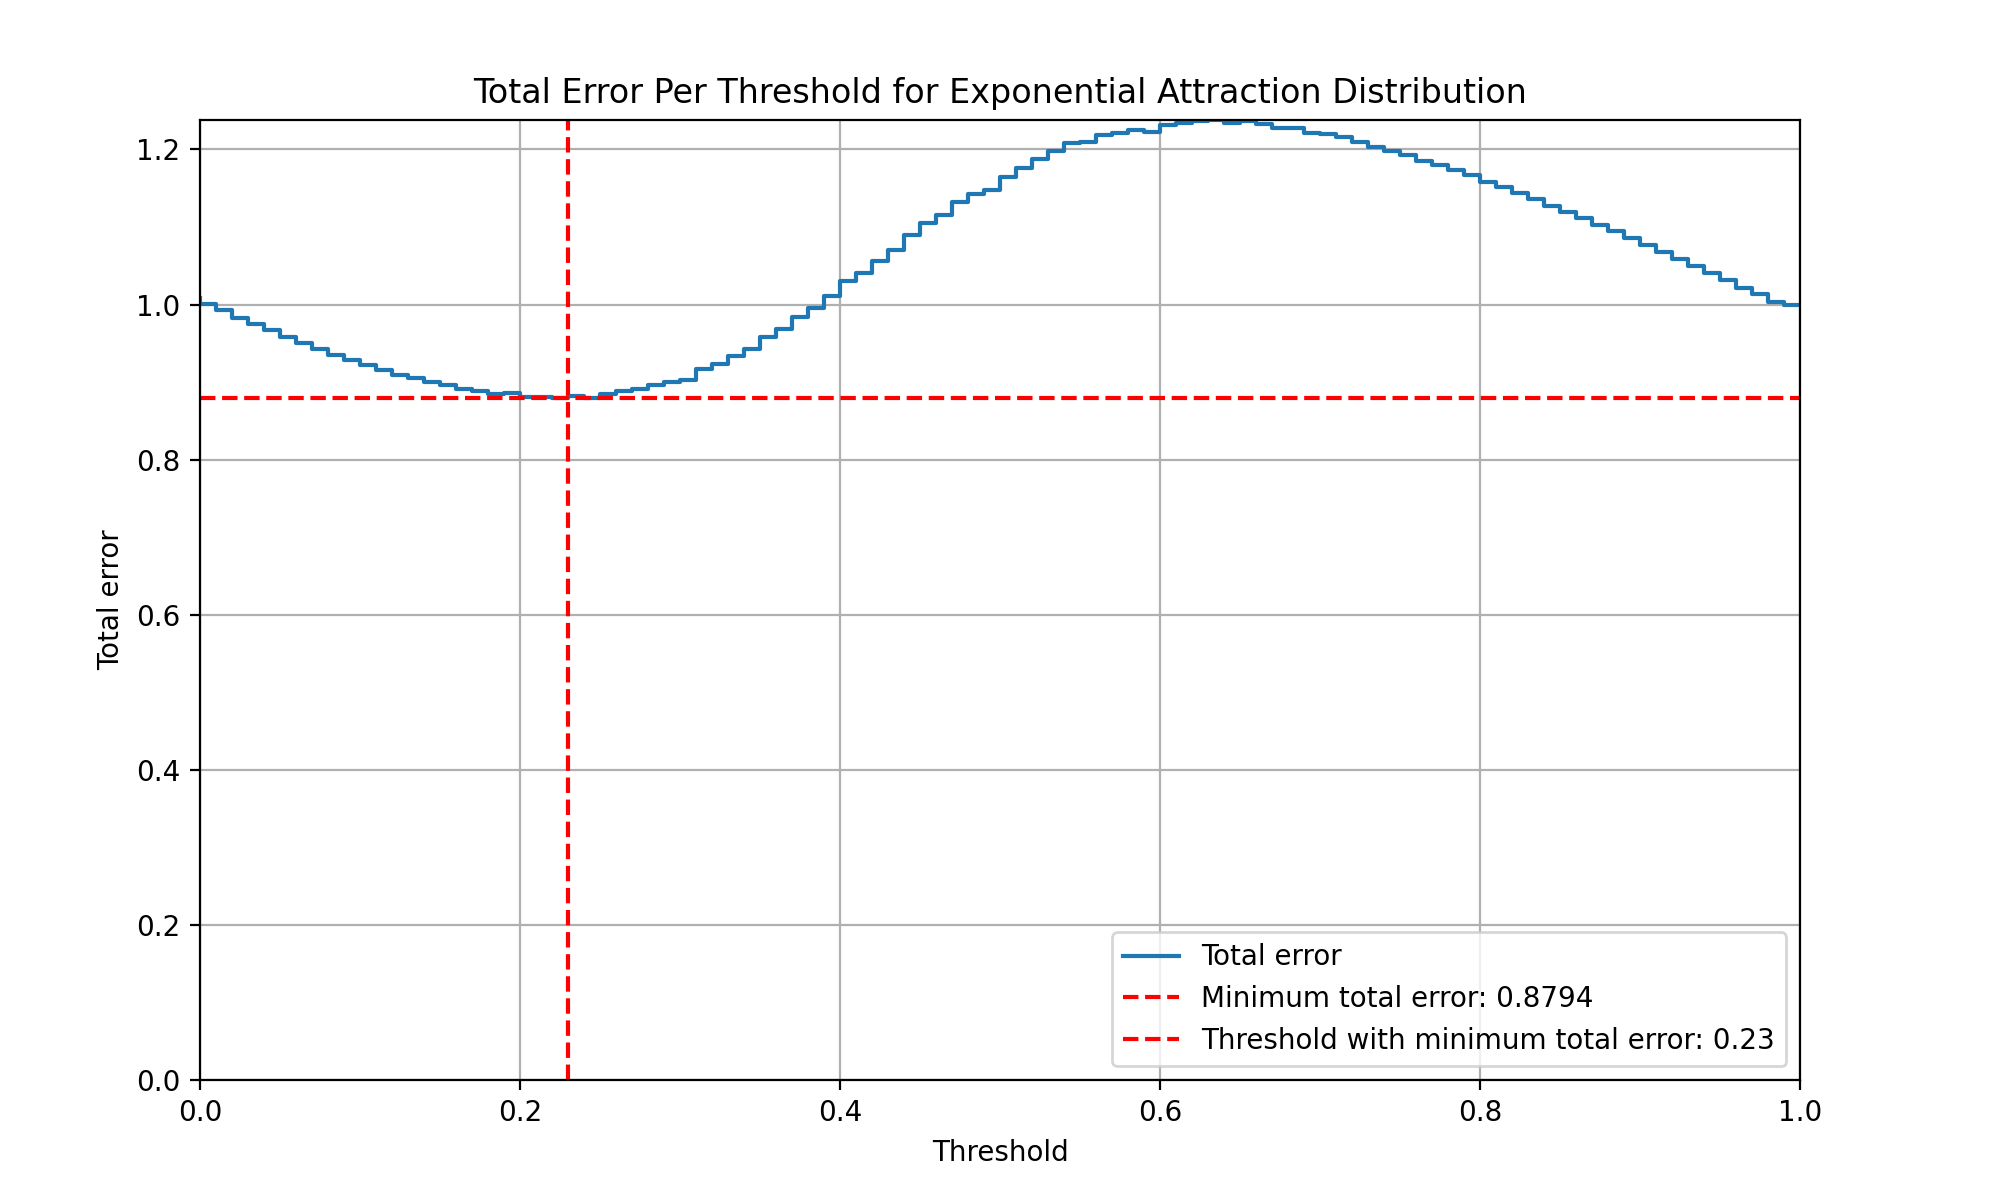
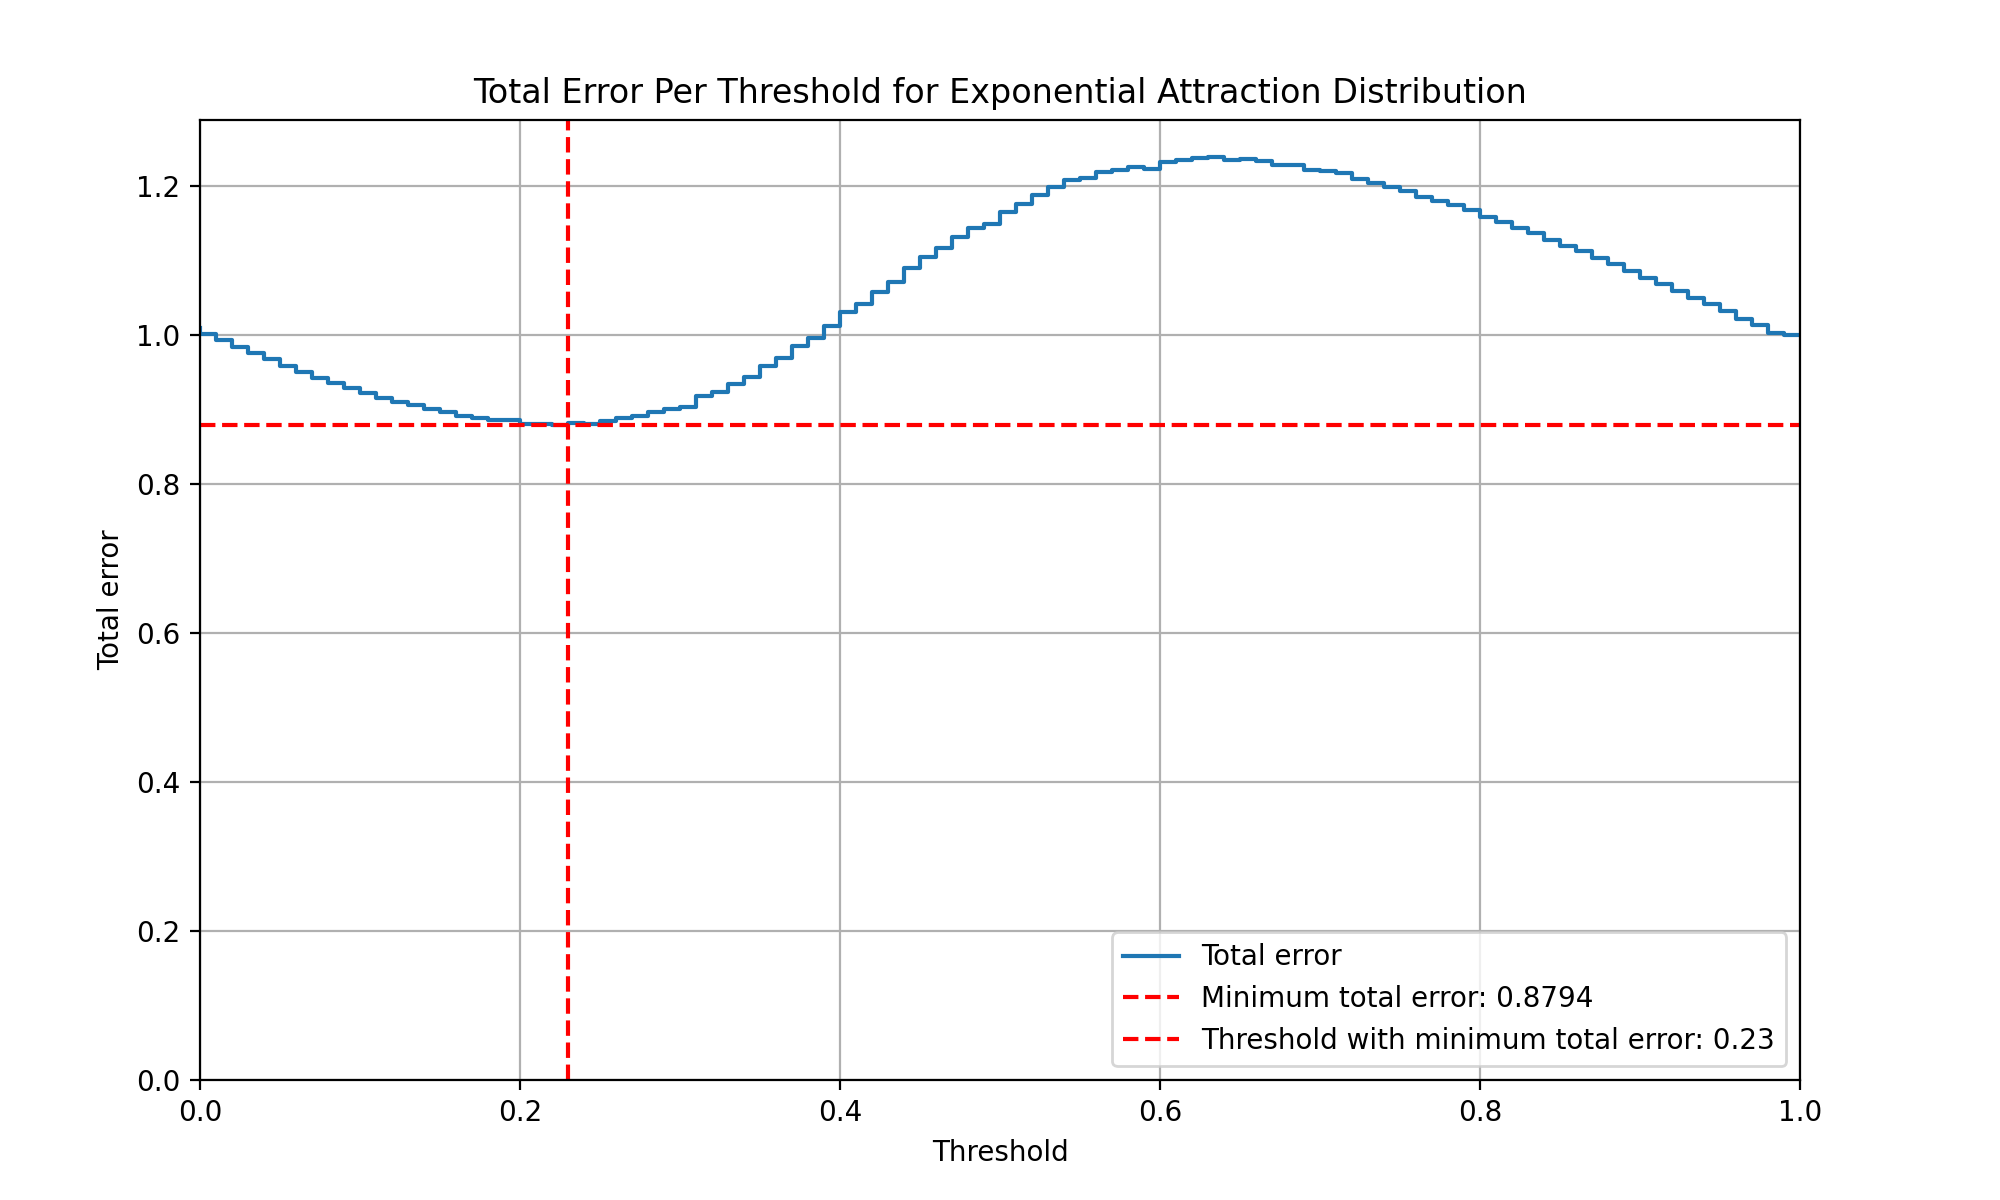
added more commenting

diff --git a/src/main.py b/src/main.py
@@ -16,15 +16,25 @@ def run_simulation(attractionDist, num_population, num_rounds, threshold, plot):
 
     for _ in range(POPULATION):
         if attractionDist == "Uniform":
-            attraction.append(np.random.uniform(0, 1, POPULATION))
+            # Sample a random attraction distribution for each person
+            random_dist = np.random.uniform(0, 1, POPULATION)
+            # Append the attraction distribution to the list of attraction distributions
+            attraction.append(random_dist)
         elif attractionDist == "Normal":
-            attraction.append(np.random.normal(0.5, 0.1, POPULATION))
+            # Sample a random attraction distribution for each person
+            random_dist = np.random.normal(0.5, 0.1, POPULATION)
             # Scale the attraction to be between 0 and 1
-            attraction[-1] = (attraction[-1] - min(attraction[-1])) / (max(attraction[-1]) - min(attraction[-1]))
+            random_dist = (random_dist - min(random_dist)) / (max(random_dist) - min(random_dist))
+            # Append the attraction distribution to the list of attraction distributions
+            attraction.append(random_dist)
+            # Scale the attraction to be between 0 and 1
         elif attractionDist == "Exponential":
-            attraction.append(np.random.exponential(0.5, POPULATION))
+            # Sample a random attraction distribution for each person
+            random_dist = np.random.exponential(0.5, POPULATION)
             # Scale the attraction to be between 0 and 1
-            attraction[-1] = (attraction[-1] - min(attraction[-1])) / (max(attraction[-1]) - min(attraction[-1]))
+            random_dist = (random_dist - min(random_dist)) / (max(random_dist) - min(random_dist))
+            # Append the attraction distribution to the list of attraction distributions
+            attraction.append(random_dist)
             
     for i in range(POPULATION):
         lover_attraction = attraction[i].copy()
@@ -188,7 +198,7 @@ def plot_agg_simulations(avg_num_married, thresholds, num_rounds, attractionDist
     plt.close()
    
 # Compute and plot the total error for each threshold
-def compute_total_error(avg_num_married, thresholds, num_population, attractionDist):
+def compute_total_error(avg_num_married, thresholds, num_population, attractionDist, threshold_weight = 1, married_prop_weight = 1):
     # Instantiate an array to store the total error for each threshold
     total_error = []
     
@@ -203,7 +213,7 @@ def compute_total_error(avg_num_married, thresholds, num_population, attractionD
         married_prop_error = 1 - married_prop
         
         # Total error
-        total_error.append(threshold_error + married_prop_error)
+        total_error.append(threshold_weight * threshold_error + married_prop_weight * married_prop_error)
         
     # Get minimum total error
     min_total_error = min(total_error)
@@ -216,7 +226,7 @@ def compute_total_error(avg_num_married, thresholds, num_population, attractionD
     
     # Set ylim
     if (max_total_error > 1):
-        ylim = max_total_error
+        ylim = max_total_error + .05
     else:
         ylim = 1
     
@@ -257,4 +267,4 @@ def compute_total_error(avg_num_married, thresholds, num_population, attractionD
         
     return total_error
 
-aggregate_simulations("Uniform", num_population = 100, num_rounds= 100, num_simulations= 500, plot = True, read_csv = True, write_csv = False)
+aggregate_simulations("Normal", num_population = 100, num_rounds= 100, num_simulations= 25, plot = True, read_csv = True, write_csv = False)
